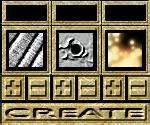
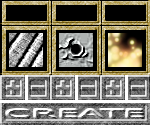
working UI buttons. there is the number stored. just not showing yet

diff --git a/coal-raider/coal-raider/coal-raider/ScreenManager/GameplayScreen.cs b/coal-raider/coal-raider/coal-raider/ScreenManager/GameplayScreen.cs
@@ -54,11 +54,8 @@ namespace coal_raider
         Model mountainModel, treeModel, buildingModel, unitModelWarrior, unitModelRanger, unitModelMage, groundTileModel, selectionRingModel;
 
         Texture2D mDottedLine, userInterface, blankTexture, squadCreate, altCreate, altMinus, altPlus;
-        Rectangle mSelectionBox, squadCreateRec1, squadCreateRec2, squadCreateRec3, squadCreateRec4;
-
-        List<Rectangle> altCreateRec = new List<Rectangle>();
-        List<Rectangle> altPlusRec = new List<Rectangle>();
-        List<Rectangle> altMinusRec = new List<Rectangle>();
+        Rectangle mSelectionBox;
+            //squadCreateRec1, squadCreateRec2, squadCreateRec3, squadCreateRec4;
 
         List<Unit> testUnitList = new List<Unit>();
         List<Squad> selectedSquads = new List<Squad>();
@@ -84,6 +81,59 @@ namespace coal_raider
             
         }
 
+        #region UI
+        /*List<Rectangle> altCreateRec = new List<Rectangle>();
+        List<Rectangle> altPlusRec = new List<Rectangle>();
+        List<Rectangle> altMinusRec = new List<Rectangle>();*/
+        List<unitUiBox> unitUIBoxList = new List<unitUiBox>();
+        public class unitUiBox 
+        {
+            public Rectangle mainRect;
+            public Vector2 position;
+            public Rectangle warriorPlusRect;
+            public Rectangle rangerPlusRect;
+            public Rectangle magePlusRect;
+            public Rectangle warriorMinusRect;
+            public Rectangle rangerMinusRect;
+            public Rectangle mageMinusRect;
+            public Rectangle createRect;
+
+            public unitUiBox(Vector2 position, int squadCreateWidth, int squadCreateHeight, int altPlusMinusWidth, int altPlusMinusHeight, int altCreateWidth, int altCreateHeight)
+            {
+                this.position = position;
+                mainRect = new Rectangle((int)position.X, (int)position.Y, squadCreateWidth, squadCreateHeight);
+                warriorPlusRect = new Rectangle((int)position.X, (int)position.Y + 75, altPlusMinusWidth, altPlusMinusHeight);
+                rangerPlusRect = new Rectangle((int)position.X + 50, (int)position.Y + 75, altPlusMinusWidth, altPlusMinusHeight);
+                magePlusRect = new Rectangle((int)position.X + 100, (int)position.Y + 75, altPlusMinusWidth, altPlusMinusHeight);
+                warriorMinusRect = new Rectangle((int)position.X + 25, (int)position.Y + 75, altPlusMinusWidth, altPlusMinusHeight);
+                rangerMinusRect = new Rectangle((int)position.X + 75, (int)position.Y + 75, altPlusMinusWidth, altPlusMinusHeight);
+                mageMinusRect = new Rectangle((int)position.X + 125, (int)position.Y + 75, altPlusMinusWidth, altPlusMinusHeight);
+                createRect = new Rectangle((int)position.X, (int)position.Y + 100, altCreateWidth, altCreateHeight);
+
+                warriorPlus = true;
+                rangerPlus = true;
+                magePlus = true;
+                warriorMinus = true;
+                rangerMinus = true;
+                mageMinus = true;
+                create = true;
+                warriorNum = 0;
+                rangerNum = 0;
+                mageNum = 0;
+            }
+
+            public bool warriorPlus;
+            public bool rangerPlus;
+            public bool magePlus;
+            public bool warriorMinus;
+            public bool rangerMinus;
+            public bool mageMinus;
+            public bool create;
+            public int warriorNum;
+            public int rangerNum;
+            public int mageNum;
+        }
+        #endregion
 
         /// <summary>
         /// Load graphics content for the game.
@@ -115,7 +165,13 @@ namespace coal_raider
             altPlus = ScreenManager.Game.Content.Load<Texture2D>(@"UI\altPlus");
             blankTexture = ScreenManager.Game.Content.Load<Texture2D>("blank");
 
-            squadCreateRec1 = new Rectangle(1115, 20, squadCreate.Width, squadCreate.Height);
+            #region UI
+            unitUIBoxList.Add(new unitUiBox(new Vector2(1115, 20), squadCreate.Width, squadCreate.Height, altPlus.Width, altPlus.Height, altCreate.Width, altCreate.Height));
+            unitUIBoxList.Add(new unitUiBox(new Vector2(1115, 165), squadCreate.Width, squadCreate.Height, altPlus.Width, altPlus.Height, altCreate.Width, altCreate.Height));
+            unitUIBoxList.Add(new unitUiBox(new Vector2(1115, 310), squadCreate.Width, squadCreate.Height, altPlus.Width, altPlus.Height, altCreate.Width, altCreate.Height));
+            unitUIBoxList.Add(new unitUiBox(new Vector2(1115, 455), squadCreate.Width, squadCreate.Height, altPlus.Width, altPlus.Height, altCreate.Width, altCreate.Height));
+
+            /*squadCreateRec1 = new Rectangle(1115, 20, squadCreate.Width, squadCreate.Height);
             squadCreateRec2 = new Rectangle(1115, 165, squadCreate.Width, squadCreate.Height);
             squadCreateRec3 = new Rectangle(1115, 310, squadCreate.Width, squadCreate.Height);
             squadCreateRec4 = new Rectangle(1115, 455, squadCreate.Width, squadCreate.Height);
@@ -139,7 +195,8 @@ namespace coal_raider
                 {
                     altMinusRec.Add(new Rectangle(1140 + (j * 50), 95 + (i * 145), altMinus.Width, altMinus.Height));
                 }
-            }
+            }*/
+            #endregion
 
             Model[] a = new Model[5];
             a[0] = mountainModel;
@@ -314,6 +371,8 @@ namespace coal_raider
                 /*----- GAME UPDATE GOES HERE -----*/
                 camera.Update(gameTime);
 
+                
+
                 #region Updates
                 List<Object> colliders = new List<Object>();
                 GameComponent[] gcc = new GameComponent[components.Count];
@@ -469,8 +528,139 @@ namespace coal_raider
                         }
                     }
                 }
-
             }
+
+            #region UI boxes
+            for (int i = 0; i < unitUIBoxList.Count; i++)
+            {
+                //warrior
+                if (mouseState.LeftButton == ButtonState.Pressed &&
+                    unitUIBoxList[i].warriorPlus &&
+                    mouseState.X > unitUIBoxList[i].warriorPlusRect.Left &&
+                    mouseState.X < unitUIBoxList[i].warriorPlusRect.Right &&
+                    mouseState.Y > unitUIBoxList[i].warriorPlusRect.Top &&
+                    mouseState.Y < unitUIBoxList[i].warriorPlusRect.Bottom)
+                {
+                    unitUIBoxList[i].warriorPlus = false;
+                }
+                else if (!unitUIBoxList[i].warriorPlus && mouseState.LeftButton == ButtonState.Released)
+                {
+                    unitUIBoxList[i].warriorPlus = true;
+                    if (unitUIBoxList[i].warriorNum + unitUIBoxList[i].rangerNum + unitUIBoxList[i].mageNum < 6)
+                    {
+                        ++unitUIBoxList[i].warriorNum;
+                    }
+                }
+
+                if (mouseState.LeftButton == ButtonState.Pressed &&
+                    unitUIBoxList[i].warriorMinus &&
+                    mouseState.X > unitUIBoxList[i].warriorMinusRect.Left &&
+                    mouseState.X < unitUIBoxList[i].warriorMinusRect.Right &&
+                    mouseState.Y > unitUIBoxList[i].warriorMinusRect.Top &&
+                    mouseState.Y < unitUIBoxList[i].warriorMinusRect.Bottom)
+                {
+                    unitUIBoxList[i].warriorMinus = false;
+                }
+                else if (!unitUIBoxList[i].warriorMinus && mouseState.LeftButton == ButtonState.Released)
+                {
+                    unitUIBoxList[i].warriorMinus = true;
+                    if (unitUIBoxList[i].warriorNum > 0)
+                    {
+                        --unitUIBoxList[i].warriorNum;
+                    }
+                }
+
+                //ranger
+                if (mouseState.LeftButton == ButtonState.Pressed &&
+                    unitUIBoxList[i].rangerPlus &&
+                    mouseState.X > unitUIBoxList[i].rangerPlusRect.Left &&
+                    mouseState.X < unitUIBoxList[i].rangerPlusRect.Right &&
+                    mouseState.Y > unitUIBoxList[i].rangerPlusRect.Top &&
+                    mouseState.Y < unitUIBoxList[i].rangerPlusRect.Bottom)
+                {
+                    unitUIBoxList[i].rangerPlus = false;
+                }
+                else if (!unitUIBoxList[i].rangerPlus && mouseState.LeftButton == ButtonState.Released)
+                {
+                    unitUIBoxList[i].rangerPlus = true;
+                    if (unitUIBoxList[i].warriorNum + unitUIBoxList[i].rangerNum + unitUIBoxList[i].mageNum < 6)
+                    {
+                        ++unitUIBoxList[i].rangerNum;
+                    }
+                }
+
+                if (mouseState.LeftButton == ButtonState.Pressed &&
+                    unitUIBoxList[i].rangerMinus &&
+                    mouseState.X > unitUIBoxList[i].rangerMinusRect.Left &&
+                    mouseState.X < unitUIBoxList[i].rangerMinusRect.Right &&
+                    mouseState.Y > unitUIBoxList[i].rangerMinusRect.Top &&
+                    mouseState.Y < unitUIBoxList[i].rangerMinusRect.Bottom)
+                {
+                    unitUIBoxList[i].rangerMinus = false;
+                }
+                else if (!unitUIBoxList[i].rangerMinus && mouseState.LeftButton == ButtonState.Released)
+                {
+                    unitUIBoxList[i].rangerMinus = true;
+                    if (unitUIBoxList[i].rangerNum > 0)
+                    {
+                        --unitUIBoxList[i].rangerNum;
+                    }
+                }
+
+                //mage
+                if (mouseState.LeftButton == ButtonState.Pressed &&
+                    unitUIBoxList[i].magePlus &&
+                    mouseState.X > unitUIBoxList[i].magePlusRect.Left &&
+                    mouseState.X < unitUIBoxList[i].magePlusRect.Right &&
+                    mouseState.Y > unitUIBoxList[i].magePlusRect.Top &&
+                    mouseState.Y < unitUIBoxList[i].magePlusRect.Bottom)
+                {
+                    unitUIBoxList[i].magePlus = false;
+                }
+                else if (!unitUIBoxList[i].magePlus && mouseState.LeftButton == ButtonState.Released)
+                {
+                    unitUIBoxList[i].magePlus = true;
+                    if (unitUIBoxList[i].warriorNum + unitUIBoxList[i].rangerNum + unitUIBoxList[i].mageNum < 6)
+                    {
+                        ++unitUIBoxList[i].mageNum;
+                    }
+                }
+
+                if (mouseState.LeftButton == ButtonState.Pressed &&
+                    unitUIBoxList[i].mageMinus &&
+                    mouseState.X > unitUIBoxList[i].mageMinusRect.Left &&
+                    mouseState.X < unitUIBoxList[i].mageMinusRect.Right &&
+                    mouseState.Y > unitUIBoxList[i].mageMinusRect.Top &&
+                    mouseState.Y < unitUIBoxList[i].mageMinusRect.Bottom)
+                {
+                    unitUIBoxList[i].mageMinus = false;
+                }
+                else if (!unitUIBoxList[i].mageMinus && mouseState.LeftButton == ButtonState.Released)
+                {
+                    unitUIBoxList[i].mageMinus = true;
+                    if (unitUIBoxList[i].mageNum > 0)
+                    {
+                        --unitUIBoxList[i].mageNum;
+                    }
+                }
+
+                //create
+                if (mouseState.LeftButton == ButtonState.Pressed &&
+                    unitUIBoxList[i].create &&
+                    mouseState.X > unitUIBoxList[i].createRect.Left &&
+                    mouseState.X < unitUIBoxList[i].createRect.Right &&
+                    mouseState.Y > unitUIBoxList[i].createRect.Top &&
+                    mouseState.Y < unitUIBoxList[i].createRect.Bottom)
+                {
+                    unitUIBoxList[i].create = false;
+                }
+                else if (!unitUIBoxList[i].create && mouseState.LeftButton == ButtonState.Released)
+                {
+                    unitUIBoxList[i].create = true;
+                    //create squad here
+                }
+            }
+            #endregion
         }
 
         private void DrawSelectionBox(Rectangle box)
@@ -550,7 +740,7 @@ namespace coal_raider
         private void drawUIElements()
         {
             SpriteBatch spriteBatch = ScreenManager.SpriteBatch;
-            spriteBatch.Draw(squadCreate, squadCreateRec1, null, Color.White, 0f, Vector2.Zero, SpriteEffects.None, 0.1f);
+            /*spriteBatch.Draw(squadCreate, squadCreateRec1, null, Color.White, 0f, Vector2.Zero, SpriteEffects.None, 0.1f);
             spriteBatch.Draw(squadCreate, squadCreateRec2, null, Color.White, 0f, Vector2.Zero, SpriteEffects.None, 0.1f);
             spriteBatch.Draw(squadCreate, squadCreateRec3, null, Color.White, 0f, Vector2.Zero, SpriteEffects.None, 0.1f);
             spriteBatch.Draw(squadCreate, squadCreateRec4, null, Color.White, 0f, Vector2.Zero, SpriteEffects.None, 0.1f);
@@ -568,6 +758,39 @@ namespace coal_raider
             foreach (Rectangle rec in altMinusRec)
             {
                 spriteBatch.Draw(altMinus, rec, null, Color.White, 0f, Vector2.Zero, SpriteEffects.None, 0);
+            }*/
+
+            foreach (unitUiBox uiBox in unitUIBoxList) 
+            {
+                spriteBatch.Draw(squadCreate, uiBox.mainRect, null, Color.White, 0f, Vector2.Zero, SpriteEffects.None, 0.1f);
+                if (uiBox.warriorPlus)
+                {
+                    spriteBatch.Draw(altPlus, uiBox.warriorPlusRect, null, Color.White, 0f, Vector2.Zero, SpriteEffects.None, 0);
+                }
+                if (uiBox.rangerPlus)
+                {
+                    spriteBatch.Draw(altPlus, uiBox.rangerPlusRect, null, Color.White, 0f, Vector2.Zero, SpriteEffects.None, 0);
+                }
+                if (uiBox.magePlus)
+                {
+                    spriteBatch.Draw(altPlus, uiBox.magePlusRect, null, Color.White, 0f, Vector2.Zero, SpriteEffects.None, 0);
+                }
+                if (uiBox.warriorMinus)
+                {
+                    spriteBatch.Draw(altMinus, uiBox.warriorMinusRect, null, Color.White, 0f, Vector2.Zero, SpriteEffects.None, 0);
+                }
+                if (uiBox.rangerMinus)
+                {
+                    spriteBatch.Draw(altMinus, uiBox.rangerMinusRect, null, Color.White, 0f, Vector2.Zero, SpriteEffects.None, 0);
+                }
+                if (uiBox.mageMinus)
+                {
+                    spriteBatch.Draw(altMinus, uiBox.mageMinusRect, null, Color.White, 0f, Vector2.Zero, SpriteEffects.None, 0);
+                }
+                if (uiBox.create)
+                {
+                    spriteBatch.Draw(altCreate, uiBox.createRect, null, Color.White, 0f, Vector2.Zero, SpriteEffects.None, 0);
+                }
             }
         }
 
